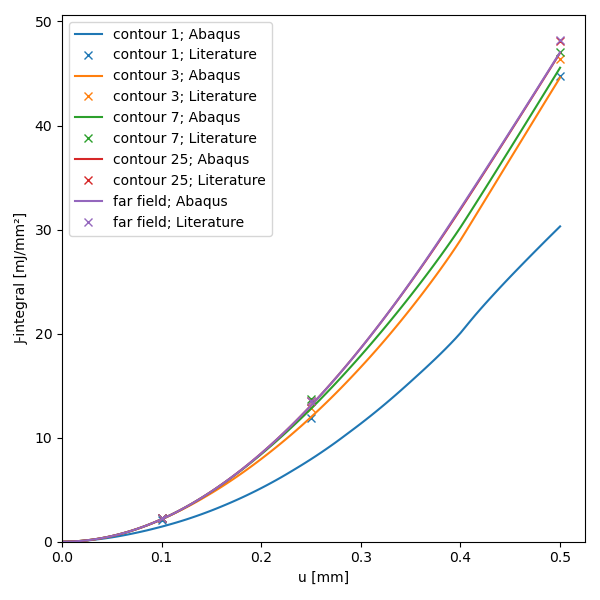
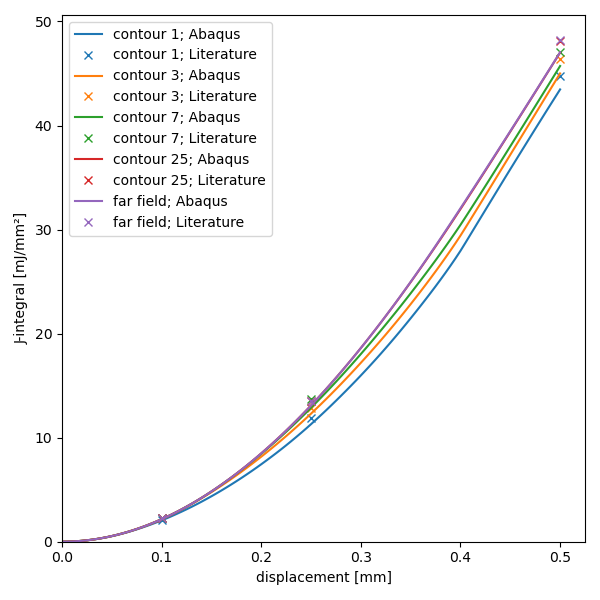
:memo: fix Martin's remarks

diff --git a/examples/Example_3_CT_specimen_elastic_plastic/example_3_CT_specimen_elastic_plastic.py b/examples/Example_3_CT_specimen_elastic_plastic/example_3_CT_specimen_elastic_plastic.py
@@ -16,8 +16,6 @@ Kolednik [1]_ suggested the following compact tension (CT) test.
     :width: 400
     :alt: scheme
 
-.. todo:: new scheme image
-
 
 Geometeric dimensions:
 ^^^^^^^^^^^^^^^^^^^^^^
@@ -65,6 +63,10 @@ Literature values
 -----------------
 
 Kolednik [1]_ provides literature values for this problem.
+The non linear elastic J-integrals (j_nl_el\_\*)
+define the energy density as sum of elastic and plastic energy densities (e=SENER+PENER).
+The incremental plasticity J_integrals (j_inc_pl\_\*)
+define the energy density only as the elastic energy densities (e=SENER) and ignore the plastic contribution.
 
 >>> literature_data = {
 ...     "u": [0.10, 0.25, 0.50],  # mm
@@ -116,7 +118,7 @@ Abaqus J-Integral
 -----------------
 
 Abaqus computes the J-integral using the virtual crack extension method by Parks [3]_.
-This J-integral is compared to the literature values of Kolednik [1]_.
+This J-integral is compared to the literature values of Kolednik [1]_ that are marked by "x".
 
 >>> fig = compare_abaqus_j_with_literature(results, literature_data)
 >>> save_fig(fig, "example_3_images/03_j_integral.png")
@@ -144,17 +146,18 @@ Except for the first contour, a good aggrement between the `conforce` and the li
 References
 ----------
 
-.. [1] Kolednik, Otmar, Ronald Schoengrundner, and Franz Dieter Fischer.
-    "A new view on J-integrals in elastic-plastic materials."
-    International Journal of Fracture 187.1 (2014): 77-107.
+.. [1] O. Kolednik, R. Schöngrundner, and F. D. Fischer,
+    “A new view on J-integrals in elastic–plastic materials,”
+    Int J Fract, vol. 187, no. 1, pp. 77–107, May 2014, doi: 10.1007/s10704-013-9920-6.
 
 .. [2] Schoengrundner.
     "Numerische Studien zur Ermittlung der risstreibenden Kraft in elastisch-plastischen Materialien bei unterschiedlichen Belastungsbedingungen"
     Ph.D. thesis, University of Leoben (2010).
 
-.. [3] Parks, D. M.
-    "The virtual crack extension method for nonlinear material behavior."
-    Computer methods in applied mechanics and engineering 12.3 (1977): 353-364.
+.. [3] D. M. Parks,
+    “The virtual crack extension method for nonlinear material behavior,”
+    Computer Methods in Applied Mechanics and Engineering, vol. 12, no. 3, pp. 353–364, Dec. 1977, doi: 10.1016/0045-7825(77)90023-8.
+
 
 Change to home directory
 
@@ -216,7 +219,7 @@ def plot_force_displacement(u, load):
     fig, ax = plt.subplots()  # type: plt.Figure, plt.Axes
     fig.set_size_inches(6., 6.)
     ax.plot(u, load, "k-")
-    ax.set_xlabel("u [mm]")
+    ax.set_xlabel("displacement [mm]")
     ax.set_ylabel("load [N]")
     ax.set_xlim(left=0)
     ax.set_ylim(bottom=0)
@@ -235,7 +238,7 @@ def compare_abaqus_j_with_literature(results, literature):
     for contour in [1, 3, 7, 25]:
         (line, ) = ax.plot(
             u,
-            np.interp(t, *np.array(j[f"J at J_NEAR_CRACK_TIP_Contour_{contour:02}"]).T),
+            np.interp(t, *np.array(j[f"J at J_NEAR_CRACK_TIP_Contour_{contour+1:02}"]).T),
             label=f"contour {contour}; Abaqus"
         )
         ax.plot(
@@ -258,7 +261,7 @@ def compare_abaqus_j_with_literature(results, literature):
     )
 
     ax.legend()
-    ax.set_xlabel("u [mm]")
+    ax.set_xlabel("displacement [mm]")
     ax.set_ylabel("J-integral [mJ/mm²]")
     ax.set_xlim(left=0)
     ax.set_ylim(bottom=0)
@@ -278,10 +281,25 @@ def compare_conforce_cfx_with_literature(results, literature):
             (ax2, results["CONF_FORCE_EL_PL_at_frame"], "nl_el", "SENER+PENER")
     ):
         ax.set_title(f"conforce with e={energy_expression} and literature with j_{lit_fix} ")
+
+        # crack tip
+        (line,) = ax.plot(
+            u,
+            -np.array(cf["J_NEAR_J_CRACK_TIP_Contour_01"])[:, 0],
+            label=f"crack tip; conforce"
+        )
+        ax.plot(
+            literature["u"],
+            literature[f"j_{lit_fix}_contour_tip"],
+            label=f"crack tip; Literature", ls="", marker="x",
+            color=line.get_color()
+        )
+
+        # contours
         for contour in [1, 3, 7, 25]:
             (line, ) = ax.plot(
                 u,
-                -np.array(cf[f"J_NEAR_J_CRACK_TIP_Contour_{contour:02}"])[:, 0],
+                -np.array(cf[f"J_NEAR_J_CRACK_TIP_Contour_{contour+1:02}"])[:, 0],
                 label=f"contour {contour}; conforce"
             )
             ax.plot(
@@ -291,6 +309,7 @@ def compare_conforce_cfx_with_literature(results, literature):
                 color=line.get_color()
             )
 
+        # far field
         (line, ) = ax.plot(
             u,
             -np.array(cf["J_FAR_J_FAR_FIELD_Contour_1"])[:, 0],
@@ -304,7 +323,7 @@ def compare_conforce_cfx_with_literature(results, literature):
         )
 
         ax.legend()
-        ax.set_xlabel("u [mm]")
+        ax.set_xlabel("displacement [mm]")
         ax.set_ylabel(r"$-\mathrm{CF}_{x}$ [mJ/mm²]")
         ax.set_xlim(left=0)
         ax.set_ylim(bottom=0)

diff --git a/theory/configurational_stress_and_force.py b/theory/configurational_stress_and_force.py
@@ -363,25 +363,24 @@ from our configurational forces.
 References
 ----------
 
-.. [1] Bergstrom, Jorgen S.
-    Mechanics of solid polymers: theory and computational modeling.
-    William Andrew, 2015.
+.. [1] J. S. (Author) Bergstrom,
+    “Mechanics of Solid Polymers: Theory and Computational Modeling”.
 
-.. [2] Mueller, R., and Maugin.
-    "On material forces and finite element discretizations."
-    Computational mechanics 29 (2002): 52-60.
+.. [2] R. Mueller and G. A. Maugin,
+    “On material forces and finite element discretizations,”
+    Computational Mechanics, vol. 29, no. 1, pp. 52–60, Jul. 2002, doi: 10.1007/s00466-002-0322-2.
 
-.. [3] Eshelby, John Douglas.
-    "The force on an elastic singularity."
-    Philosophical Transactions of the Royal Society of London. Series A, Mathematical and Physical Sciences 244.877 (1951): 87-112.
+.. [3] J. D. Eshelby,
+    “The force on an elastic singularity,”
+    Philosophical Transactions of the Royal Society of London. Series A, Mathematical and Physical Sciences, vol. 244, no. 877, pp. 87–112, 1951.
 
-.. [4] Gurtin, Morton E.
-    "Motions."
-    Configurational Forces as Basic Concepts of Continuum Physics (2000): 182-183.
+.. [4] M. E. Gurtin,
+    Configurational forces as basic concepts of continuum physics.
+    in Applied mathematical sciences, no. 137. New York: Springer, 2000.
 
-.. [5] Kolednik, Otmar, Ronald Schöngrundner, and Franz Dieter Fischer.
-    "A new view on J-integrals in elastic–plastic materials."
-    International Journal of Fracture 187.1 (2014): 77-107.
+.. [5] O. Kolednik, R. Schöngrundner, and F. D. Fischer,
+    “A new view on J-integrals in elastic–plastic materials,”
+    Int J Fract, vol. 187, no. 1, pp. 77–107, May 2014, doi: 10.1007/s10704-013-9920-6.
 
 """
 import doctest

diff --git a/examples/Example_2_CT_specimen_linear_elastic/example_2_CT_specimen_linear_elastic.py b/examples/Example_2_CT_specimen_linear_elastic/example_2_CT_specimen_linear_elastic.py
@@ -11,8 +11,6 @@ This allows a comparisson with theoertical prediction for CT specimens by Anders
     :width: 400
     :alt: scheme
 
-.. todo:: new scheme image
-
 Geometeric dimensions:
 ^^^^^^^^^^^^^^^^^^^^^^
 
@@ -175,17 +173,18 @@ Abaqus and conforce show a good aggreement for all contours in the regions `A` a
 References
 ----------
 
-.. [1] Kolednik, Otmar, Ronald Schoengrundner, and Franz Dieter Fischer.
-    "A new view on J-integrals in elastic-plastic materials."
-    International Journal of Fracture 187.1 (2014): 77-107.
+.. [1] O. Kolednik, R. Schöngrundner, and F. D. Fischer,
+    “A new view on J-integrals in elastic–plastic materials,”
+    Int J Fract, vol. 187, no. 1, pp. 77–107, May 2014, doi: 10.1007/s10704-013-9920-6.
 
-.. [2] Anderson, T. L., and T. Anderson.
-    "Fracture mechanics: fundamentals and applications. 2005."
-    CRC press, Taylor and Francis Group, ISBN 10 (2005): 0-8493.
+.. [2] T. L. Anderson,
+    Fracture mechanics: fundamentals and applications.
+    Boca Raton: CRC Press, 1991.
 
-.. [3] Parks, D. M.
-    "The virtual crack extension method for nonlinear material behavior."
-    Computer methods in applied mechanics and engineering 12.3 (1977): 353-364.
+.. [3] D. M. Parks, 
+    “The virtual crack extension method for nonlinear material behavior,”
+    Computer Methods in Applied Mechanics and Engineering, vol. 12, no. 3, pp. 353–364, Dec. 1977, doi: 10.1016/0045-7825(77)90023-8.
+
 
 Change to home directory
 

diff --git a/examples/Example_1_Two_phase_bar/example_1_two_phase_bar.py b/examples/Example_1_Two_phase_bar/example_1_two_phase_bar.py
@@ -75,8 +75,8 @@ This results in the expected configurational force in x-direction at the interfa
 >>> cfx_at_interface_theory  # N
 11.6666666666667
 
-Apply Plug-in
--------------
+Applying the Abaqus Plug-in
+---------------------------
 
 In this section the configurational forces are computed using the Abaqus Plug-in.
 First, open the folder that contains the \*.inp file.
@@ -160,7 +160,7 @@ a log summary is printed.
 .. image:: example_1_images/13_log_summary.png
     :alt: log summary
 
-The requested field outputs can be selected and plotted.
+The requested field outputs of conforce can be selected and plotted as vector plot.
 
 .. image:: example_1_images/14_CF.png
     :alt: result visualization
@@ -198,9 +198,10 @@ The theoretical and computed values differ by a factor of
 References
 ----------
 
-.. [1] Kolling, S., and R. Mueller.
-    "On configurational forces in short-time dynamics and their computation with an explicit solver."
-    Computational Mechanics 35 (2005): 392-399.
+.. [1] S. Kolling and R. Mueller,
+    “On configurational forces in short-time dynamics and their computation with an explicit solver,”
+    Comput Mech, vol. 35, no. 5, pp. 392–399, Apr. 2005, doi: 10.1007/s00466-004-0627-4.
+
 """
 import doctest
 

diff --git a/doc/source/theory.rst b/doc/source/theory.rst
@@ -1,11 +1,15 @@
 Theory
 ======
 
+This section explains how configurational stresses and forces are derived.
+Furthermore, the deformation gradient and the first piola kirchhoff stress tensor is explained.
+Finite elements are used for the numerical implementation.
+
 .. autosummary::
     :toctree: generated
 
-    theory.abbreviations
-    theory.finite_element
+    theory.configurational_stress_and_force
     theory.deformation_gradient
     theory.first_piola_kirchhoff_stress
-    theory.configurational_stress_and_force
+    theory.finite_element
+    theory.abbreviations

diff --git a/doc/source/index.rst b/doc/source/index.rst
@@ -72,9 +72,8 @@ Reference
 =========
 
 .. [1] R. Mueller and G. A. Maugin,
-    "On material forces and finite element discretizations"
-    Computational Mechanics, vol. 29, no. 1, pp. 52-60, Jul. 2002, doi: 10.1007/s00466-002-0322-2.
-
+    “On material forces and finite element discretizations,”
+    Computational Mechanics, vol. 29, no. 1, pp. 52–60, Jul. 2002, doi: 10.1007/s00466-002-0322-2.
 
 
 Indices and tables
